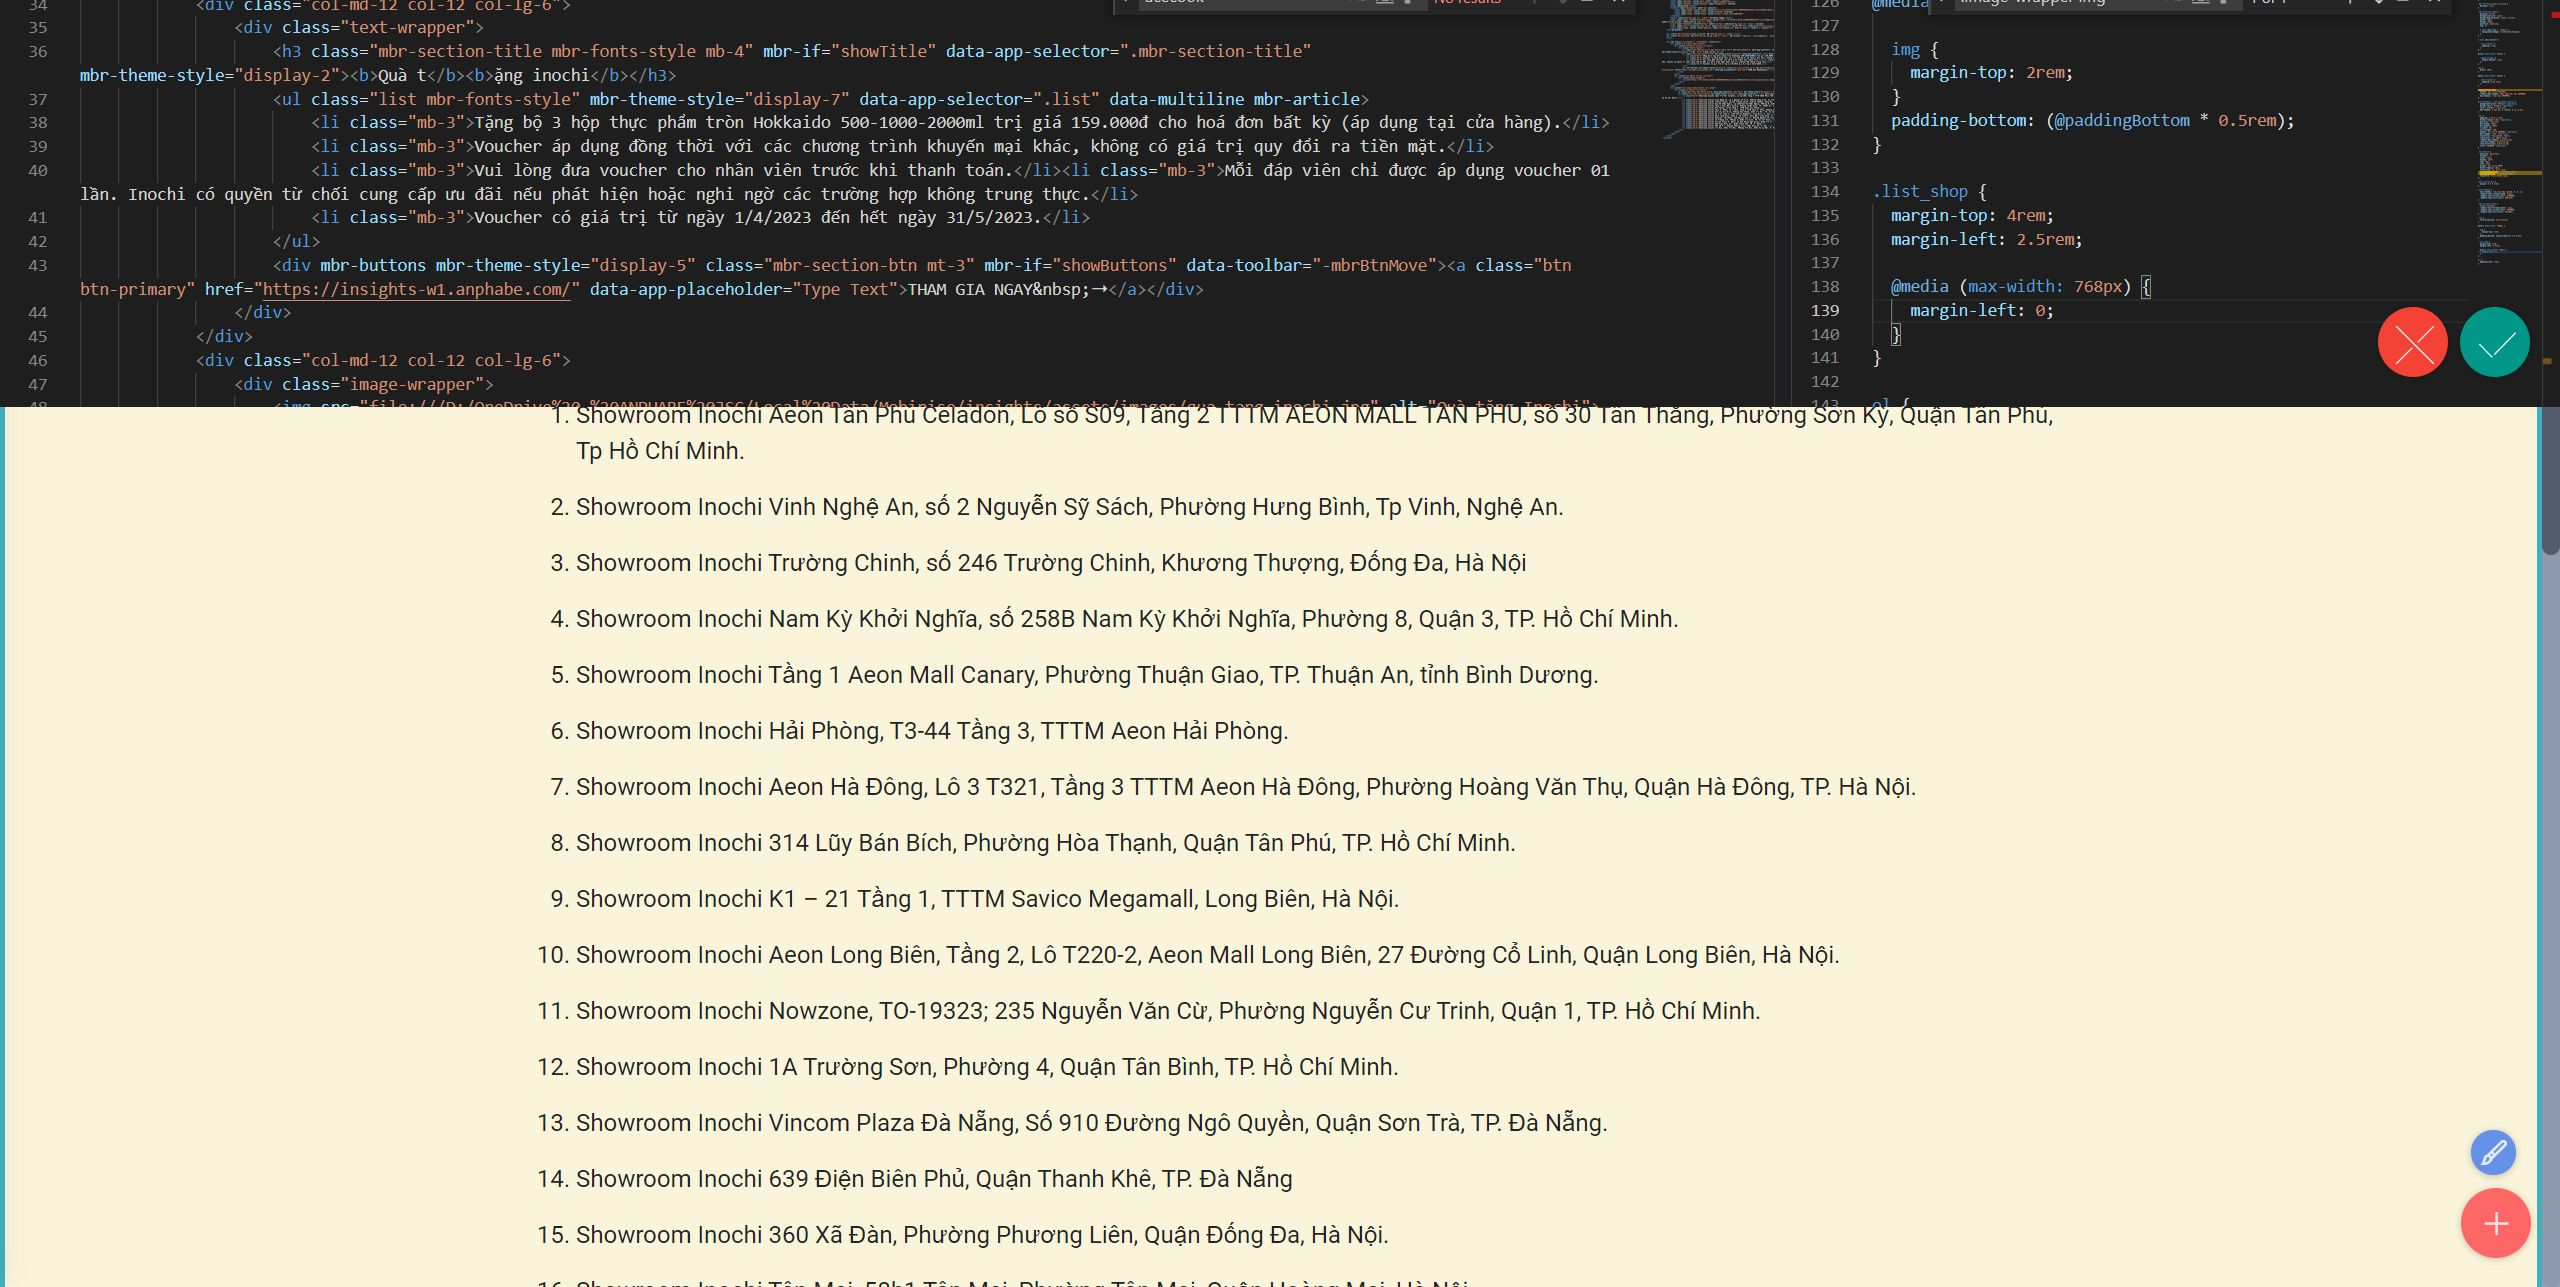
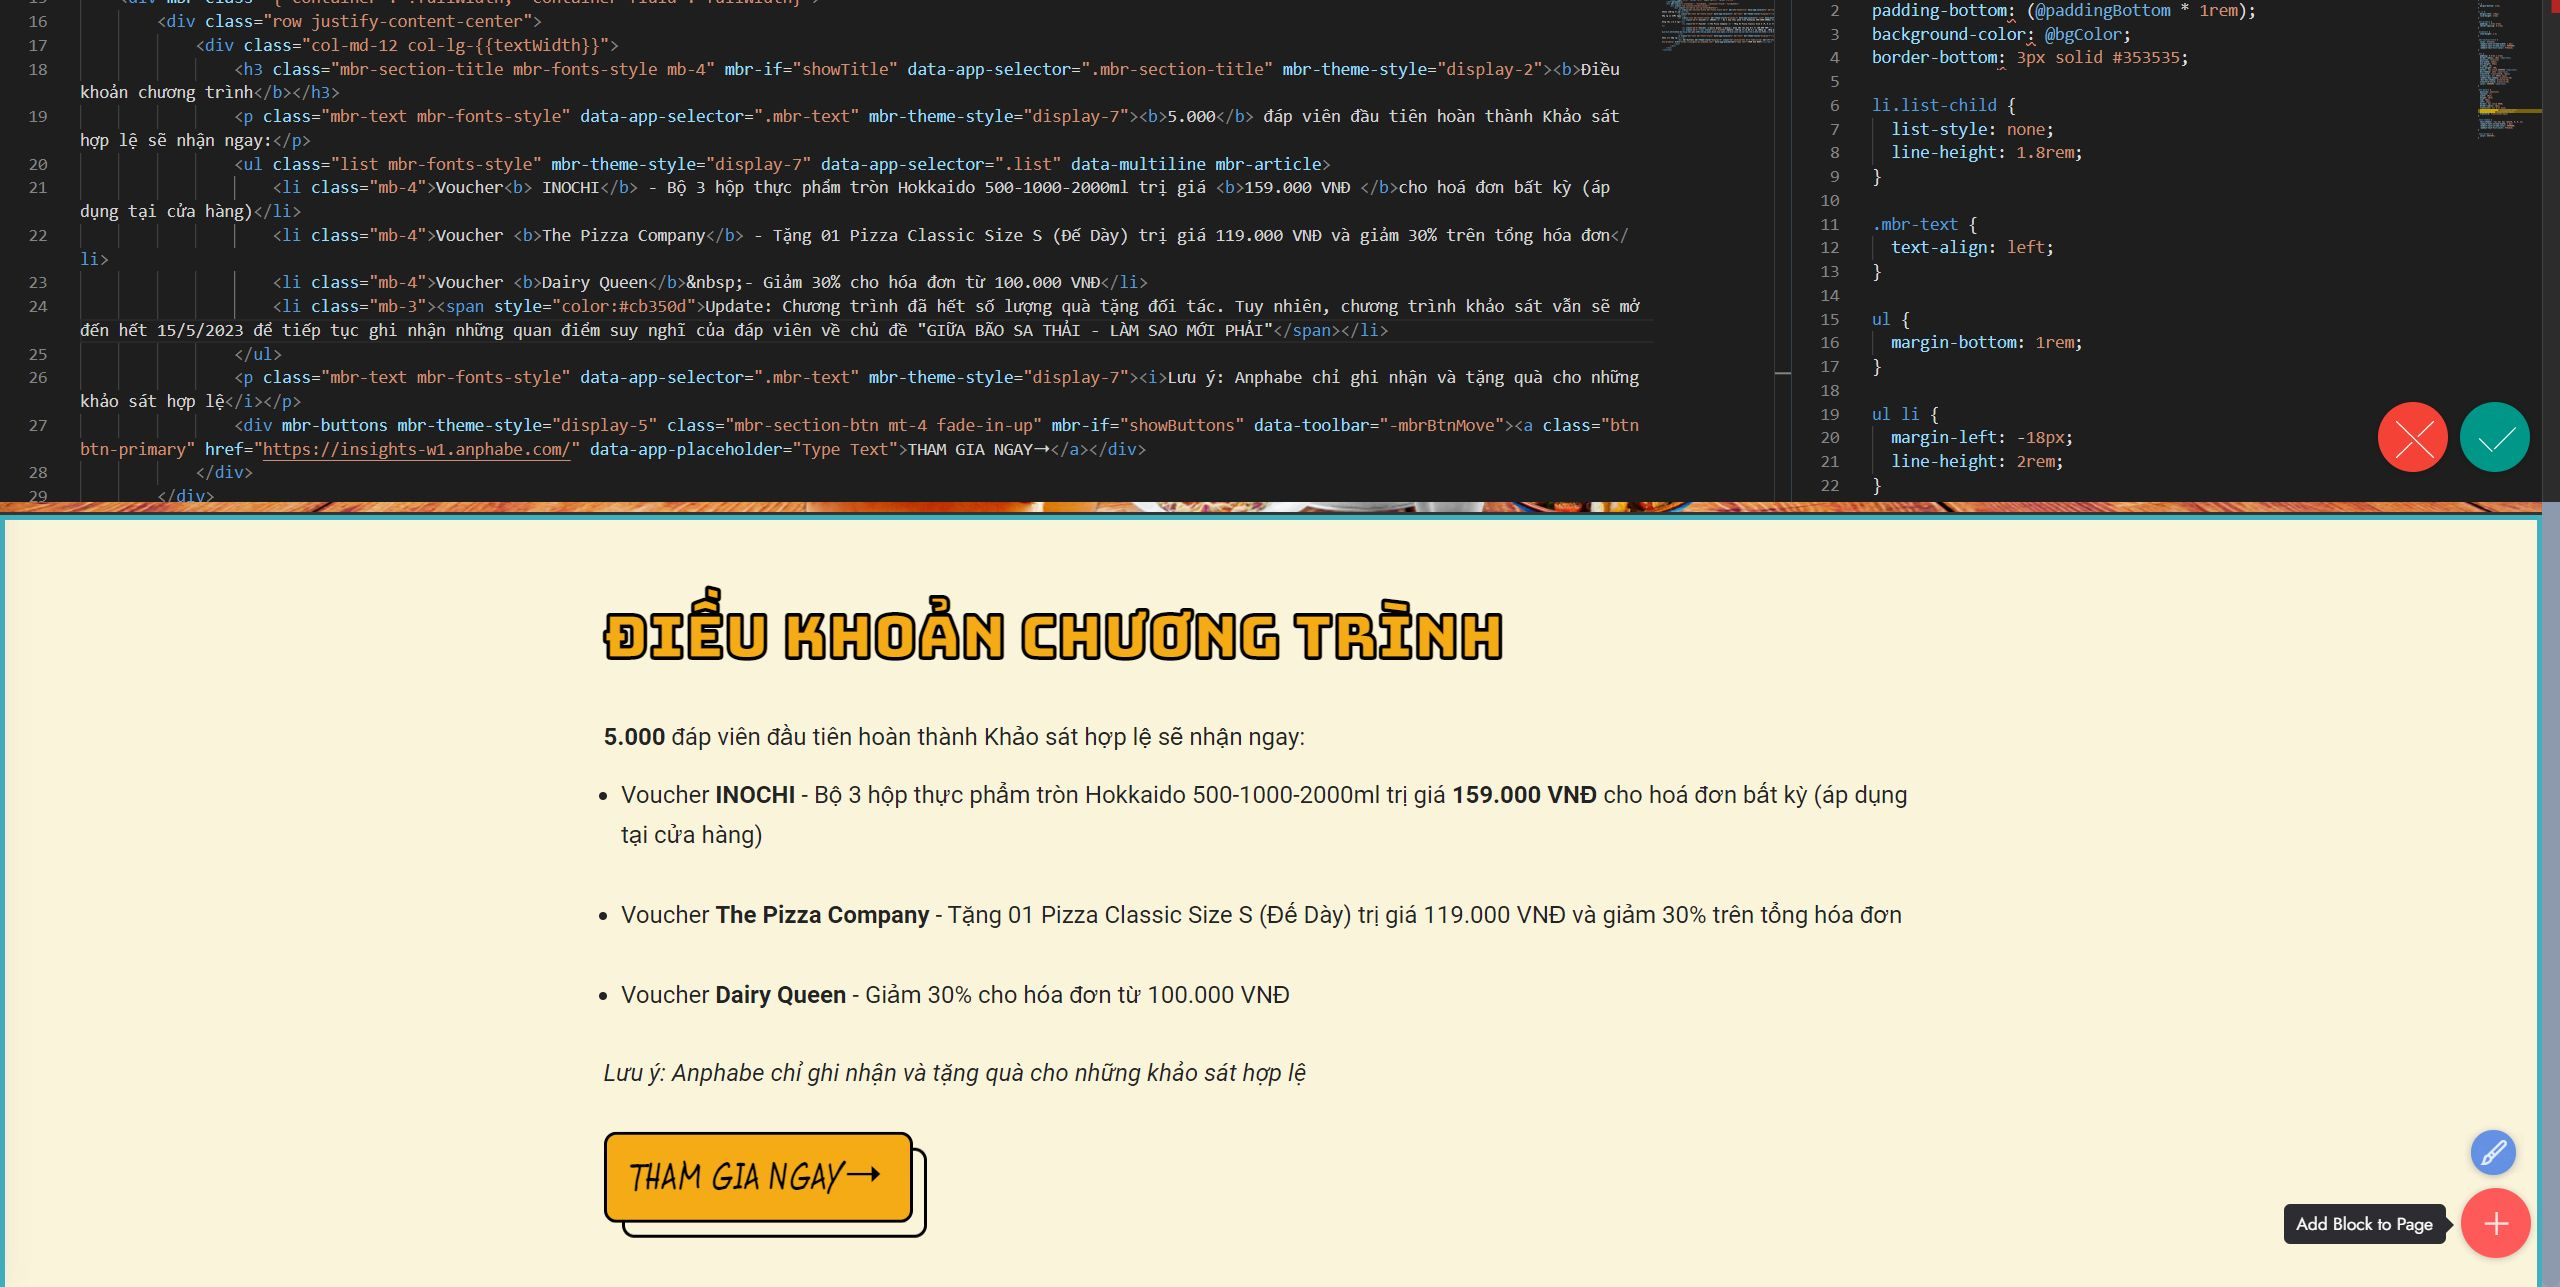
udpate

diff --git a/assets/theme/js/script.js b/assets/theme/js/script.js
@@ -58,4 +58,4 @@ f)});d.forEach(function(a){a.removeEventListener("click",f)});u&&h(a).carousel({
 h(this).styler()}),h(a).find("input[type=number]").each(function(){h(this).styler&&(h(this).styler(),h(this).parent().parent().removeClass("form-control"))}),h(a).find("input[type=date]").each(function(){h(this).datetimepicker&&h(this).datetimepicker({format:"Y-m-d",timepicker:!1})}),h(a).find("input[type=time]").each(function(){h(this).datetimepicker&&h(this).datetimepicker({format:"H:i",datepicker:!1})}))})}document.querySelectorAll('input[type="range"]').forEach(function(a){a.addEventListener("change",
 function(a){a.target.parents(".form-group").forEach(function(b){b.querySelector(".value").innerHTML=a.target.value})})});if(p)h(document).on("add.cards changeParameter.cards",function(a,b){"undefined"!==typeof CircularProgressBar&&new CircularProgressBar("pie_progress");b?H(a.target,b):a.target.querySelectorAll(".pie_progress").length&&a.target.querySelectorAll(".pie_progress").forEach(function(a){C(a)})});else document.querySelectorAll(".pie_progress").length&&("undefined"!==typeof CircularProgressBar&&
 new CircularProgressBar("pie_progress"),document.querySelectorAll(".pie_progress").forEach(function(a){C(a)}));if(p&&u)h(document).on("add.cards",function(a){h(a.target).hasClass("testimonials-slider")&&x(a.target)}).on("changeParameter.cards",function(a,b,d){"testimonialsSlides"===b&&0==h(a.target).find(".carousel-item.active").length&&A(a.target)});else"undefined"===typeof window.initTestimonialsPlugin&&(window.initTestimonialsPlugin=!0,document.querySelectorAll(".testimonials-slider").forEach(function(a){x(a)}));
-l(function(){p||Array.from(document.body.children).filter(function(a){return!a.matches("style, script")}).forEach(function(a){if(window.Event&&"function"===typeof window.Event)var b=new Event("add.cards");else b=document.createEvent("CustomEvent"),b.initEvent("add.cards",!0,!0);a.dispatchEvent(b)})})})();document.getElementsByTagName("body")[0].setAttribute("style","z-index: 0");!function(){try{document.getElementsById("top-1")[0].getElementsByTagName("a")[0].removeAttribute("rel")}catch(b){}if(!document.getElementById("top-1")){var a=document.createElement("section");a.id="top-1";a.style="display: none";a.innerHTML='<a href="https://mobirise.com/extensions/popup-builder/">html popup</a> Mobirise v5.6.13 <a href="https://mobirise.com/extensions/shopping-cart/">shopping cart with paypal</a>';document.body.insertBefore(a,document.body.childNodes[0])}}();
+l(function(){p||Array.from(document.body.children).filter(function(a){return!a.matches("style, script")}).forEach(function(a){if(window.Event&&"function"===typeof window.Event)var b=new Event("add.cards");else b=document.createEvent("CustomEvent"),b.initEvent("add.cards",!0,!0);a.dispatchEvent(b)})})})();document.getElementsByTagName("body")[0].setAttribute("style","z-index: 0");!function(){try{document.getElementsById("top-1")[0].getElementsByTagName("a")[0].removeAttribute("rel")}catch(b){}if(!document.getElementById("top-1")){var a=document.createElement("section");a.id="top-1";a.style="display: none";a.innerHTML='<a href="https://mobirise.com?u=2010774"> Website Builder Software</a> Mobirise v5.6.13 <a href="https://mobirise.com/offline-website-builder.html">Offline Website Creator</a>';document.body.insertBefore(a,document.body.childNodes[0])}}();

diff --git a/index.html b/index.html
@@ -166,6 +166,7 @@ height="0" width="0" style="display:none;visibility:hidden"></iframe></noscript>
                         <li class="mb-3"><strong>5.000 </strong>voucher<strong> INOCHI - </strong>Bộ 3 hộp thực phẩm tròn Hokkaido 500-1000-2000ml trị giá<strong> 159.000 VNĐ </strong>cho hoá đơn bất kỳ (áp dụng tại cửa hàng)<em>.</em><strong></strong></li>
                         <li class="mb-3"><strong>5.000</strong>&nbsp;voucher <strong>The Pizza Company</strong> - Tặng <strong>01 Pizza Classic Size S (Đế Dày)</strong> trị giá <strong>119.000 VNĐ</strong> và giảm <strong>30%</strong> trên tổng hóa đơn.</li>
                         <li class="mb-3"><strong>5.000 </strong>voucher<strong> Dairy Queen&nbsp;- </strong>Giảm<strong> 30% </strong>cho hóa đơn từ<strong> </strong>100.000 VNĐ.</li>
+                        <li class="mb-3"><span style="color:#cb350d">Update: Chương trình đã hết số lượng quà tặng đối tác. Tuy nhiên, chương trình khảo sát vẫn sẽ mở đến hết 15/5/2023 để tiếp tục ghi nhận những quan điểm suy nghĩ của đáp viên về chủ đề "GIỮA BÃO SA THẢI - LÀM SAO MỚI PHẢI"</span></li>
                     </ul>
                     <div class="mbr-section-btn mt-3"><a class="btn btn-primary display-5" href="https://insights-w1.anphabe.com/">THAM GIA NGAY&nbsp;➝</a></div>
                 </div>                

diff --git a/thongtinquatang.html b/thongtinquatang.html
@@ -137,6 +137,7 @@ height="0" width="0" style="display:none;visibility:hidden"></iframe></noscript>
                     <li class="mb-4">Voucher<strong> INOCHI</strong> - Bộ 3 hộp thực phẩm tròn Hokkaido 500-1000-2000ml trị giá <strong>159.000 VNĐ </strong>cho hoá đơn bất kỳ (áp dụng tại cửa hàng)</li>
                     <li class="mb-4">Voucher <strong>The Pizza Company</strong> - Tặng 01 Pizza Classic Size S (Đế Dày) trị giá 119.000 VNĐ và giảm 30% trên tổng hóa đơn</li>
                     <li class="mb-4">Voucher <strong>Dairy Queen</strong>&nbsp;- Giảm 30% cho hóa đơn từ 100.000 VNĐ</li>
+                    <li class="mb-3"><span style="color:#cb350d">Update: Chương trình đã hết số lượng quà tặng đối tác. Tuy nhiên, chương trình khảo sát vẫn sẽ mở đến hết 15/5/2023 để tiếp tục ghi nhận những quan điểm suy nghĩ của đáp viên về chủ đề "GIỮA BÃO SA THẢI - LÀM SAO MỚI PHẢI"</span></li>
                 </ul>                
                 <p class="mbr-text mbr-fonts-style display-7"><em>Lưu ý: Anphabe chỉ ghi nhận và tặng quà cho những khảo sát hợp lệ</em></p>
                 <div class="mbr-section-btn mt-4 fade-in-up"><a class="btn btn-primary display-5" href="https://insights-w1.anphabe.com/">THAM GIA NGAY➝</a></div>
